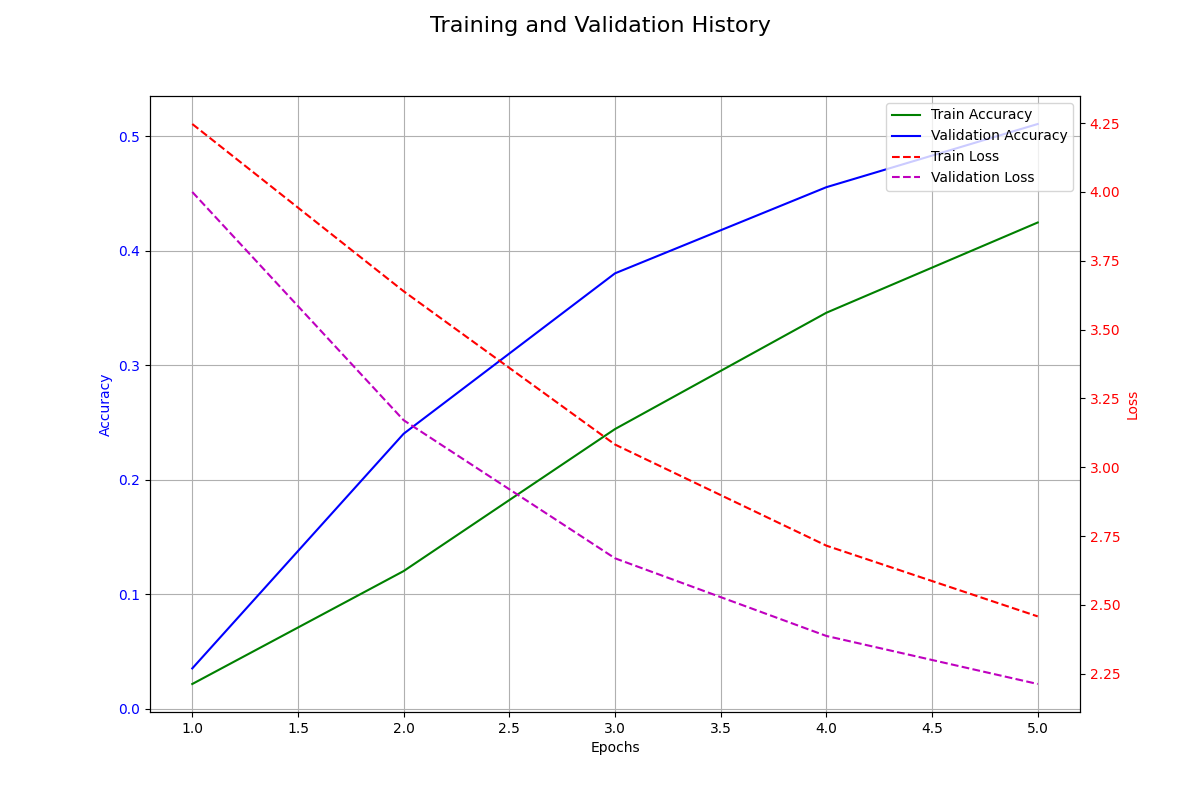
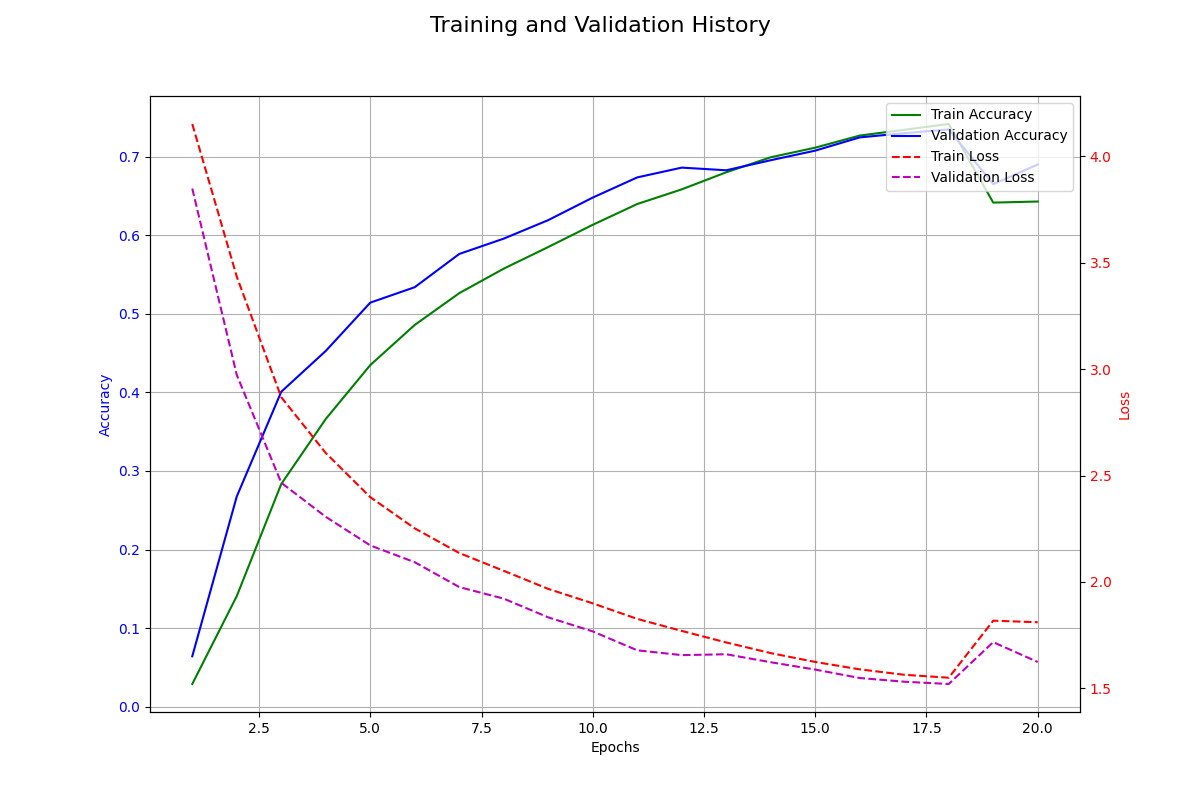
Update

diff --git a/case1/evaluate_ensemble.py b/case1/evaluate_ensemble.py
@@ -1,0 +1,114 @@
+# evaluate_ensemble.py (새 파일)
+
+# python evaluate_ensemble.py --checkpoint_dir checkpoints/
+
+import torch
+import torch.nn as nn
+from tqdm import tqdm
+import argparse
+import os
+import glob  # 파일 경로를 쉽게 찾기 위해 glob 라이브러리 임포트
+
+# 직접 작성한 파일들 임포트
+import config
+from ntu_data_loader import NTURGBDDataset, DataLoader
+from model import GCNTransformerModel # 모델 이름은 GCNTransformerModel로 수정
+from utils import load_checkpoint
+
+def evaluate_ensemble(checkpoint_dir):
+    """
+    지정된 디렉토리의 모든 스냅샷 모델을 불러와 앙상블 평가를 수행합니다.
+    """
+    # --- 설정값 불러오기 ---
+    print(f"Using device: {config.DEVICE}")
+    
+    # --- 데이터 로딩 ---
+    val_dataset = NTURGBDDataset(data_path=config.DATASET_PATH, split='val', max_frames=config.MAX_FRAMES)
+    val_loader = DataLoader(val_dataset, batch_size=config.BATCH_SIZE, shuffle=False, num_workers=4)
+
+    # --- 모델 초기화 ---
+    # 모델은 한 번만 생성하고, 가중치만 바꿔가며 로드합니다.
+    model = GCNTransformerModel(
+        block_type=config.BLOCK_TYPE,
+        layer_dims=config.LAYER_DIMS,
+        use_gcn=config.USE_GCN
+    ).to(config.DEVICE)
+    model.eval()
+    
+    # --- 평가할 스냅샷 파일 목록 찾기 ---
+    # 'snapshot_epoch_*.pth.tar' 패턴에 맞는 모든 파일을 찾습니다.
+    snapshot_paths = glob.glob(os.path.join(checkpoint_dir, 'snapshot_epoch_*.pth.tar'))
+    
+    if not snapshot_paths:
+        print(f"Error: No snapshot files found in '{checkpoint_dir}'")
+        return
+        
+    print(f"Found {len(snapshot_paths)} snapshots to ensemble.")
+    print(snapshot_paths)
+
+    # --- 앙상블 평가 루프 ---
+    correct_predictions = 0
+    total_samples = 0
+    all_labels = []
+    
+    # 모든 모델의 예측 확률을 저장할 리스트
+    # (모델 수, 샘플 수, 클래스 수) 형태가 됩니다.
+    ensemble_probs = []
+
+    # 1. 각 스냅샷 모델로 예측 확률 계산
+    for snapshot_path in tqdm(snapshot_paths, desc="[Ensemble Inference]"):
+        # 저장된 가중치 로드
+        load_checkpoint(snapshot_path, model, device=config.DEVICE)
+        
+        batch_probs = []
+        if not all_labels: # 레이블은 한 번만 저장하면 됩니다.
+            is_first_model = True
+        else:
+            is_first_model = False
+
+        with torch.no_grad():
+            for motion_features, labels, first_frame_coords in val_loader:
+                motion_features = motion_features.to(config.DEVICE)
+                first_frame_coords = first_frame_coords.to(config.DEVICE)
+                
+                outputs = model(motion_features, first_frame_coords)
+                
+                # Softmax를 적용하여 확률 값으로 변환
+                probs = torch.softmax(outputs, dim=1)
+                batch_probs.append(probs.cpu())
+                
+                if is_first_model:
+                    all_labels.append(labels.cpu())
+
+        # 현재 모델의 모든 예측 확률을 하나로 합침
+        ensemble_probs.append(torch.cat(batch_probs))
+
+    # 2. 예측 확률을 평균내어 최종 예측 결정
+    # 리스트를 텐서로 변환 (모델 수, 샘플 수, 클래스 수)
+    ensemble_probs_tensor = torch.stack(ensemble_probs)
+    # 모델 축(dim=0)에 대해 평균 계산
+    avg_probs = torch.mean(ensemble_probs_tensor, dim=0) # (샘플 수, 클래스 수)
+    
+    # 평균 확률에서 가장 높은 값을 가진 클래스를 최종 예측으로 선택
+    _, predicted_labels = torch.max(avg_probs, 1)
+    
+    ground_truth_labels = torch.cat(all_labels)
+    
+    # 3. 정확도 계산
+    total_samples = len(ground_truth_labels)
+    correct_predictions = (predicted_labels == ground_truth_labels).sum().item()
+
+    # --- 최종 결과 출력 ---
+    final_accuracy = correct_predictions / total_samples
+    
+    print("\n--- Ensemble Evaluation Finished ---")
+    print(f"Ensembled {len(snapshot_paths)} models.")
+    print(f"Final Accuracy: {final_accuracy * 100:.2f}%")
+
+if __name__ == '__main__':
+    parser = argparse.ArgumentParser(description="Evaluate a snapshot ensemble of models.")
+    parser.add_argument('-d', '--checkpoint_dir', type=str, required=True,
+                        help="Directory containing the snapshot checkpoint files (e.g., 'checkpoints/')")
+    args = parser.parse_args()
+    
+    evaluate_ensemble(args.checkpoint_dir)

diff --git a/case1/train.py b/case1/train.py
@@ -33,7 +33,7 @@ from ntu_data_loader import NTURGBDDataset, DataLoader
 from model import GCNTransformerModel
 from utils import calculate_accuracy, save_checkpoint, load_checkpoint
 
-
+# python train.py --scheduler cosine_restarts
 
 # ## ----------------------------------------------------
 # 커맨드 라인 인자에 따라 스케줄러를 반환한다.
@@ -440,6 +440,17 @@ def main():
                 print(f"No imporvement in validation accuracy for {patience_counter} epoch(s).")
 
 
+            # 현재 에폭이 T_0 주기로 나누어 떨어질 때 스냅샷을 저장합니다.
+            # (epoch + 1)을 사용하는 이유는 epoch가 0부터 시작하기 때문입니다. (e.g., 15번째 에폭은 epoch=14)
+            if (epoch + 1) % config.T_0 == 0:
+                print(f"🎉 Saving snapshot model at epoch {epoch + 1}")
+                save_checkpoint({
+                    'epoch': epoch + 1,
+                    'state_dict': model.state_dict(),
+                    'best_acc': val_acc, # 해당 스냅샷 시점의 정확도
+                }, directory=config.SAVE_DIR, filename=f"snapshot_epoch_{epoch+1}.pth.tar")
+                
+                
             # >> 조기 종료 카운터가 설정된 patience 값에 도달하면
             if patience_counter >= patience:
                 print(f"Early stopping triggered after {patience} epochs without improvement.")

diff --git a/case1/config.py b/case1/config.py
@@ -27,7 +27,7 @@ PROB = 0.5 # 데이터 증강 확률
 
 # >> 학습 하이퍼파라미터
 EPOCHS = 100             # 총 학습 에폭
-LEARNING_RATE = 0.0001   # 학습률
+LEARNING_RATE = 0.0005   # 학습률
 DEVICE = 'cuda' if torch.cuda.is_available() else 'cpu' # 학습 장치
 WARMUP_EPOCHS = 3        # 학습 초기에 학습률을 서서히 증가시키는 웜업 에폭 수 
 GRAD_CLIP_NORM = 0.7     # 그레이디언트 폭발을 막기 위한 클리핑 최대 L2 Norm 값 
@@ -37,12 +37,12 @@ LABEL_SMOOTHING = 0.1 # Loss Function CrossEntropy의 label smoothing
 DROPOUT = 0.5 # dropout
 ETA_MIN = 1e-6
 T_0 = 15 # 15에폭마다 학습률이 최대치로 초기화된다.
-T_MULT = 2 # 15 에폭 다음 학습률 초기화는 그 2배인 30에폭이다.
+T_MULT = 1 # 2로 설정된 경우, 15에폭 다음에 학습률 초기화는 2배인 30에폭이다.
 
 # >> block_type, layer_dims, use_gcn를 설정한다.
 # >> block_type='st' : Shift-GCN + ST-Transformer, block_type='standard' : Shift-GCN + Transformer
 # >> gcn 사용 여부는 use_gcn을 True, False로 지정한다.
 # >> layer_dims 사용법은, [입력 크기, 출력 크기]이다. 만약 4층을 쌓으려면 [64, 128, 128, 256, 256] 하면 된다.
 BLOCK_TYPE = 'st'
-LAYER_DIMS = [512, 512, 256, 256, 128]
+LAYER_DIMS = [64, 128, 128, 256]
 USE_GCN = True

diff --git a/README.md b/README.md
@@ -157,6 +157,8 @@ USE_GCN = True
 
 ## 실험4
 
+실험 3에서 스냅샷 앙상블을 추가했다. 스냅샷 앙상블을 위해 스케줄러는 consine_restart를 사용한다.
+
 ```
 # >> 재현성을 위해 시드 설정
 SEED = 42
@@ -175,7 +177,7 @@ PROB = 0.5 # 데이터 증강 확률
 
 # >> 학습 하이퍼파라미터
 EPOCHS = 100             # 총 학습 에폭
-LEARNING_RATE = 0.0003   # 학습률
+LEARNING_RATE = 0.0005   # 학습률
 DEVICE = 'cuda' if torch.cuda.is_available() else 'cpu' # 학습 장치
 WARMUP_EPOCHS = 3        # 학습 초기에 학습률을 서서히 증가시키는 웜업 에폭 수
 GRAD_CLIP_NORM = 0.7     # 그레이디언트 폭발을 막기 위한 클리핑 최대 L2 Norm 값
@@ -185,14 +187,11 @@ LABEL_SMOOTHING = 0.1 # Loss Function CrossEntropy의 label smoothing
 DROPOUT = 0.5 # dropout
 ETA_MIN = 1e-6
 T_0 = 15 # 15에폭마다 학습률이 최대치로 초기화된다.
-T_MULT = 2 # 15 에폭 다음 학습률 초기화는 그 2배인 30에폭이다.
+T_MULT = 1 # 2로 설정된 경우, 15에폭 다음에 학습률 초기화는 2배인 30에폭이다.
 
-# >> block_type, layer_dims, use_gcn를 설정한다.
-# >> block_type='st' : Shift-GCN + ST-Transformer, block_type='standard' : Shift-GCN + Transformer
-# >> gcn 사용 여부는 use_gcn을 True, False로 지정한다.
-# >> layer_dims 사용법은, [입력 크기, 출력 크기]이다. 만약 4층을 쌓으려면 [64, 128, 128, 256, 256] 하면 된다.
+
 BLOCK_TYPE = 'st'
-LAYER_DIMS = [512, 256, 128]
+LAYER_DIMS = [64, 128, 128, 256]
 USE_GCN = True
 ```
 
